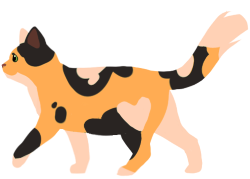
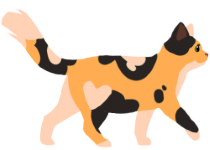
changed cat height and direction

diff --git a/game.py b/game.py
@@ -44,11 +44,10 @@ def animate_hero():#Defines a function that changes the hero’s image
 
 clock.schedule_interval(animate_hero, 0.2) #each 0.2 secondplay the function hero 
 
-#------------------------------------------------------------------------------------------------------------------------
+#------------------------------------------ CAT SPRITES ------------------------------------------------
 
 cat = Actor("cat1", anchor=('middle', 'bottom')) 
-cat.pos = (600, 365) 
-cat_speed = 0
+cat.pos = (-200, 365) 
 
 cat_sprite = ["cat1", "cat2", "cat3", "cat4", "cat5"]
 
@@ -60,6 +59,8 @@ def animate_cat():
     cat.image = cat_sprite[image_index]
 
 clock.schedule_interval(animate_cat, 0.5) 
+
+#------------------------------------------------------------------------------------------------------
 
 #life count
 heart = Actor("heart")
@@ -121,6 +122,11 @@ def update(dt):
     global next_box_time, hero_speed, live, score
 
     next_box_time -= dt #enemies update
+
+    for i in cat:
+        x, y = cat.pos
+        x -= GAME_SPEED/8 * -dt
+        cat.pos = x, y
 
     if next_box_time <= 0:
         box = Actor("box", anchor=('left', 'bottom'))
